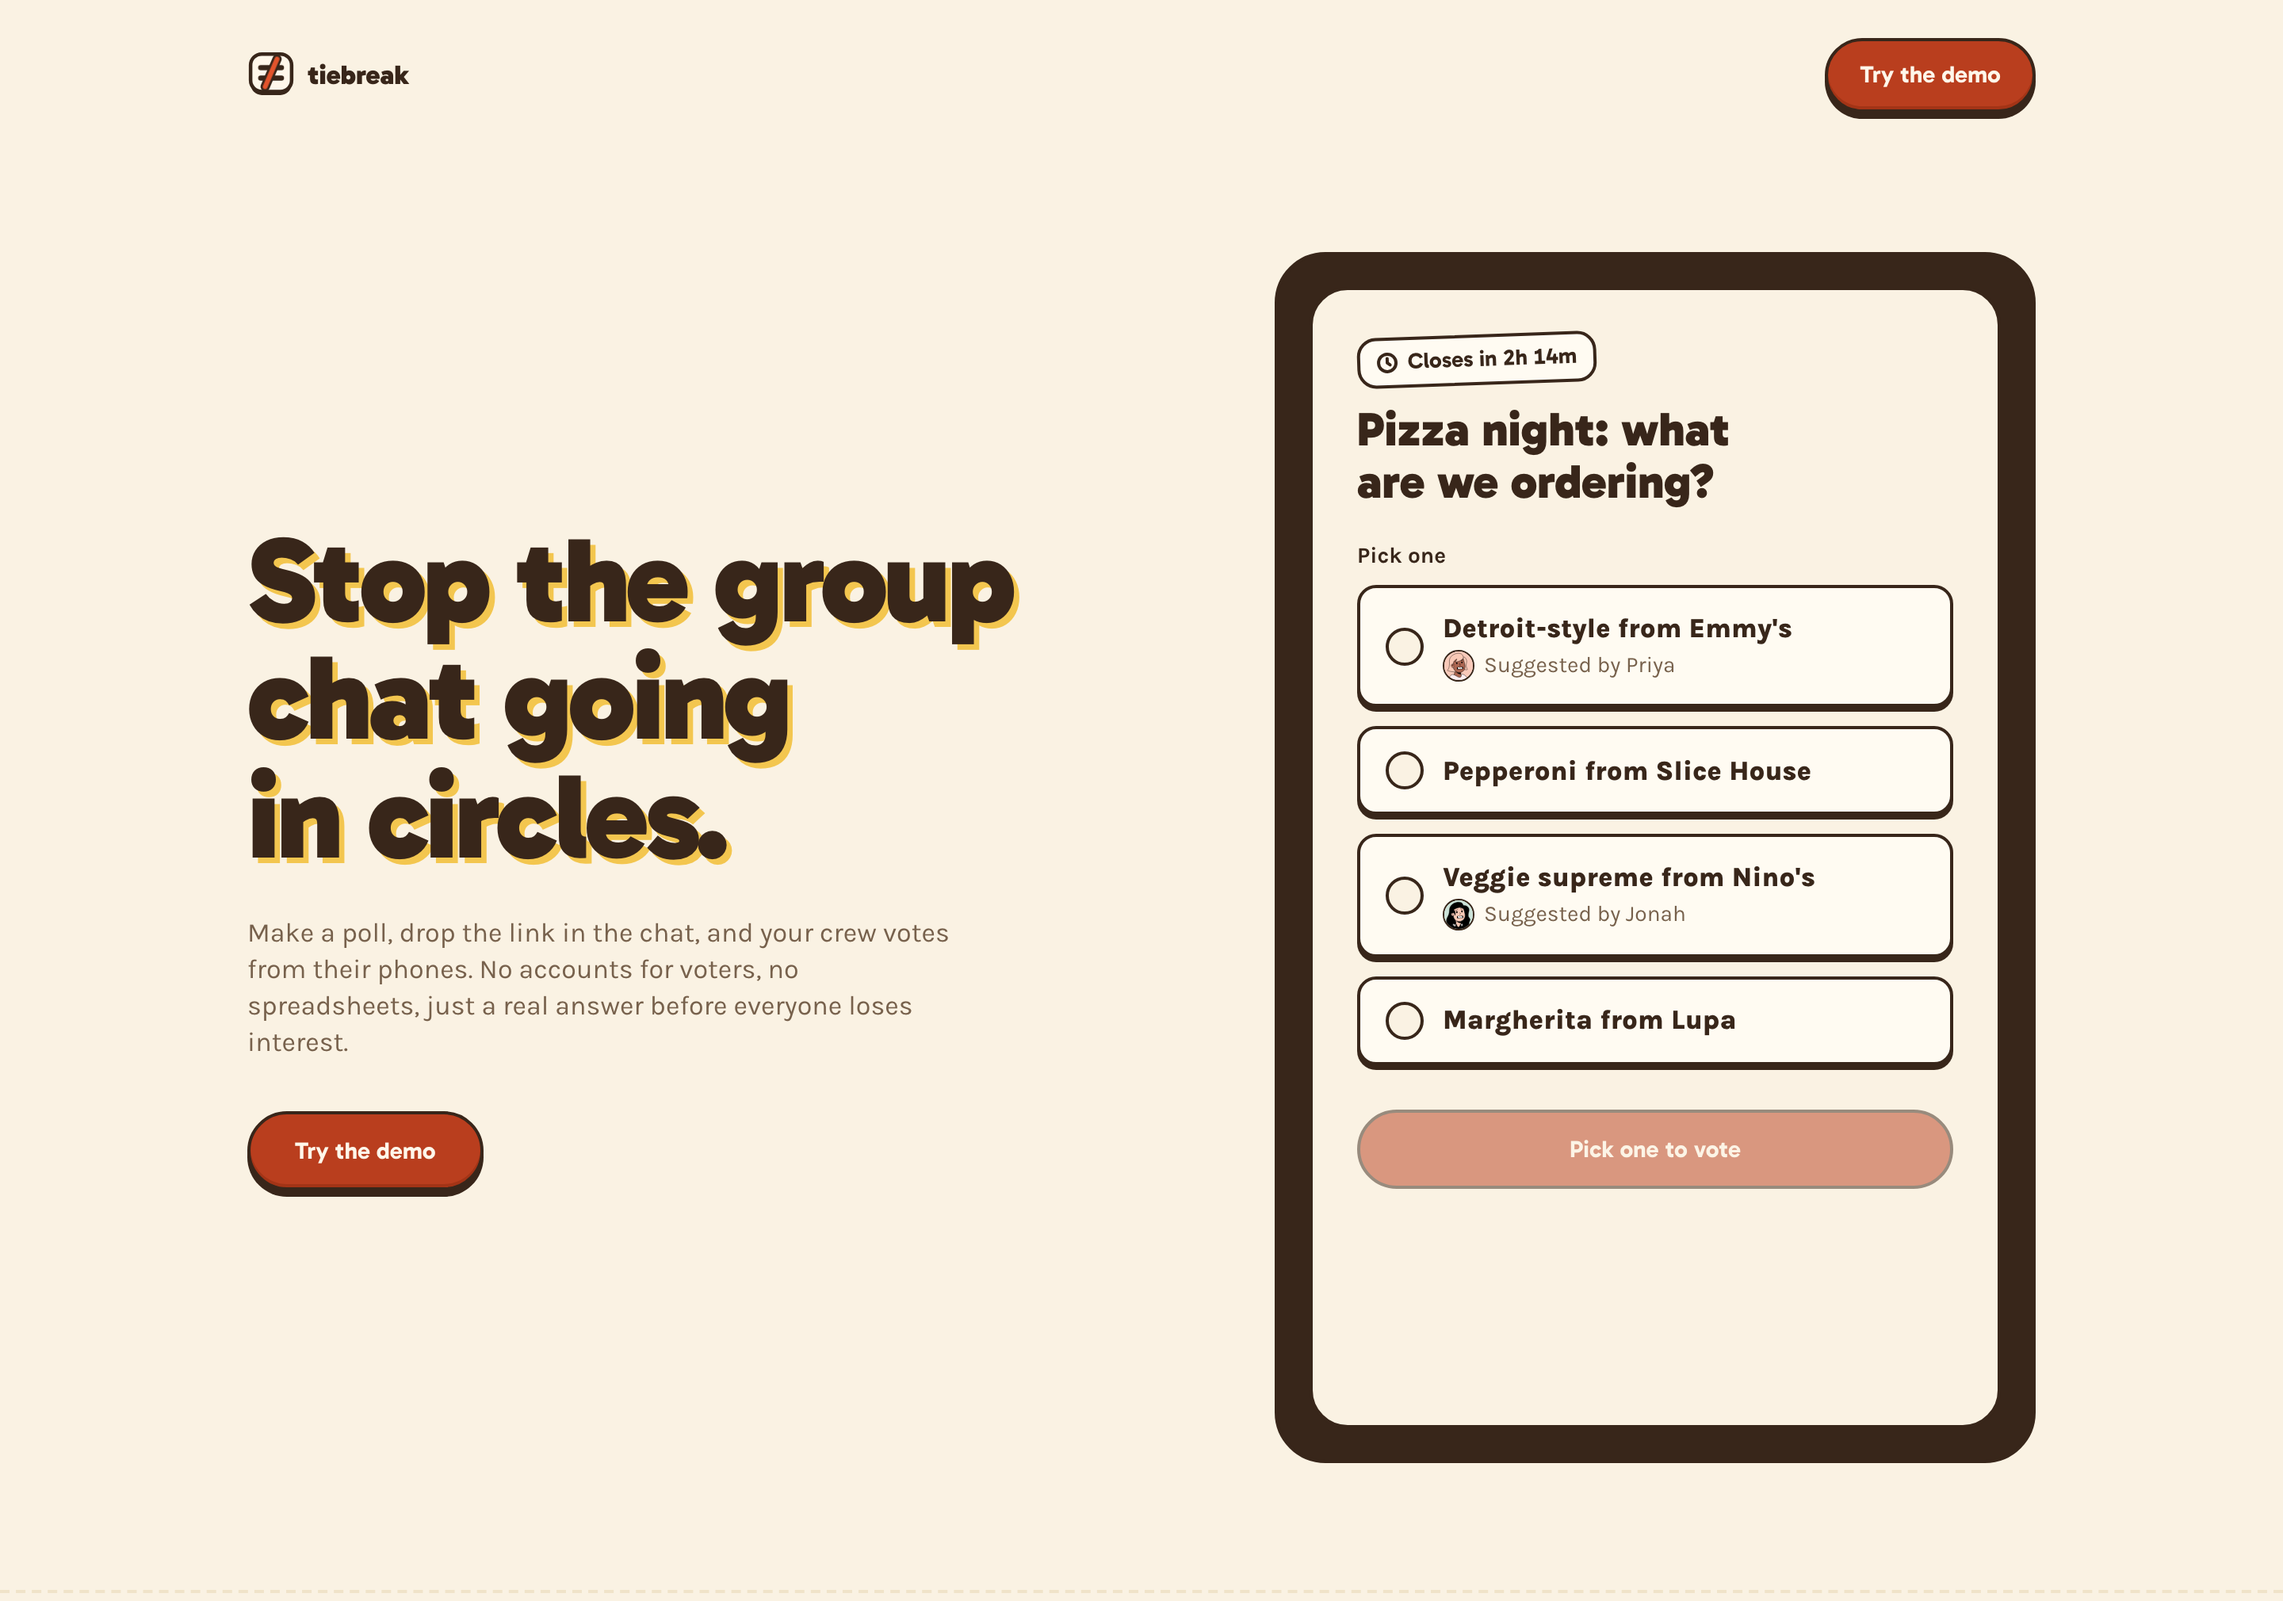
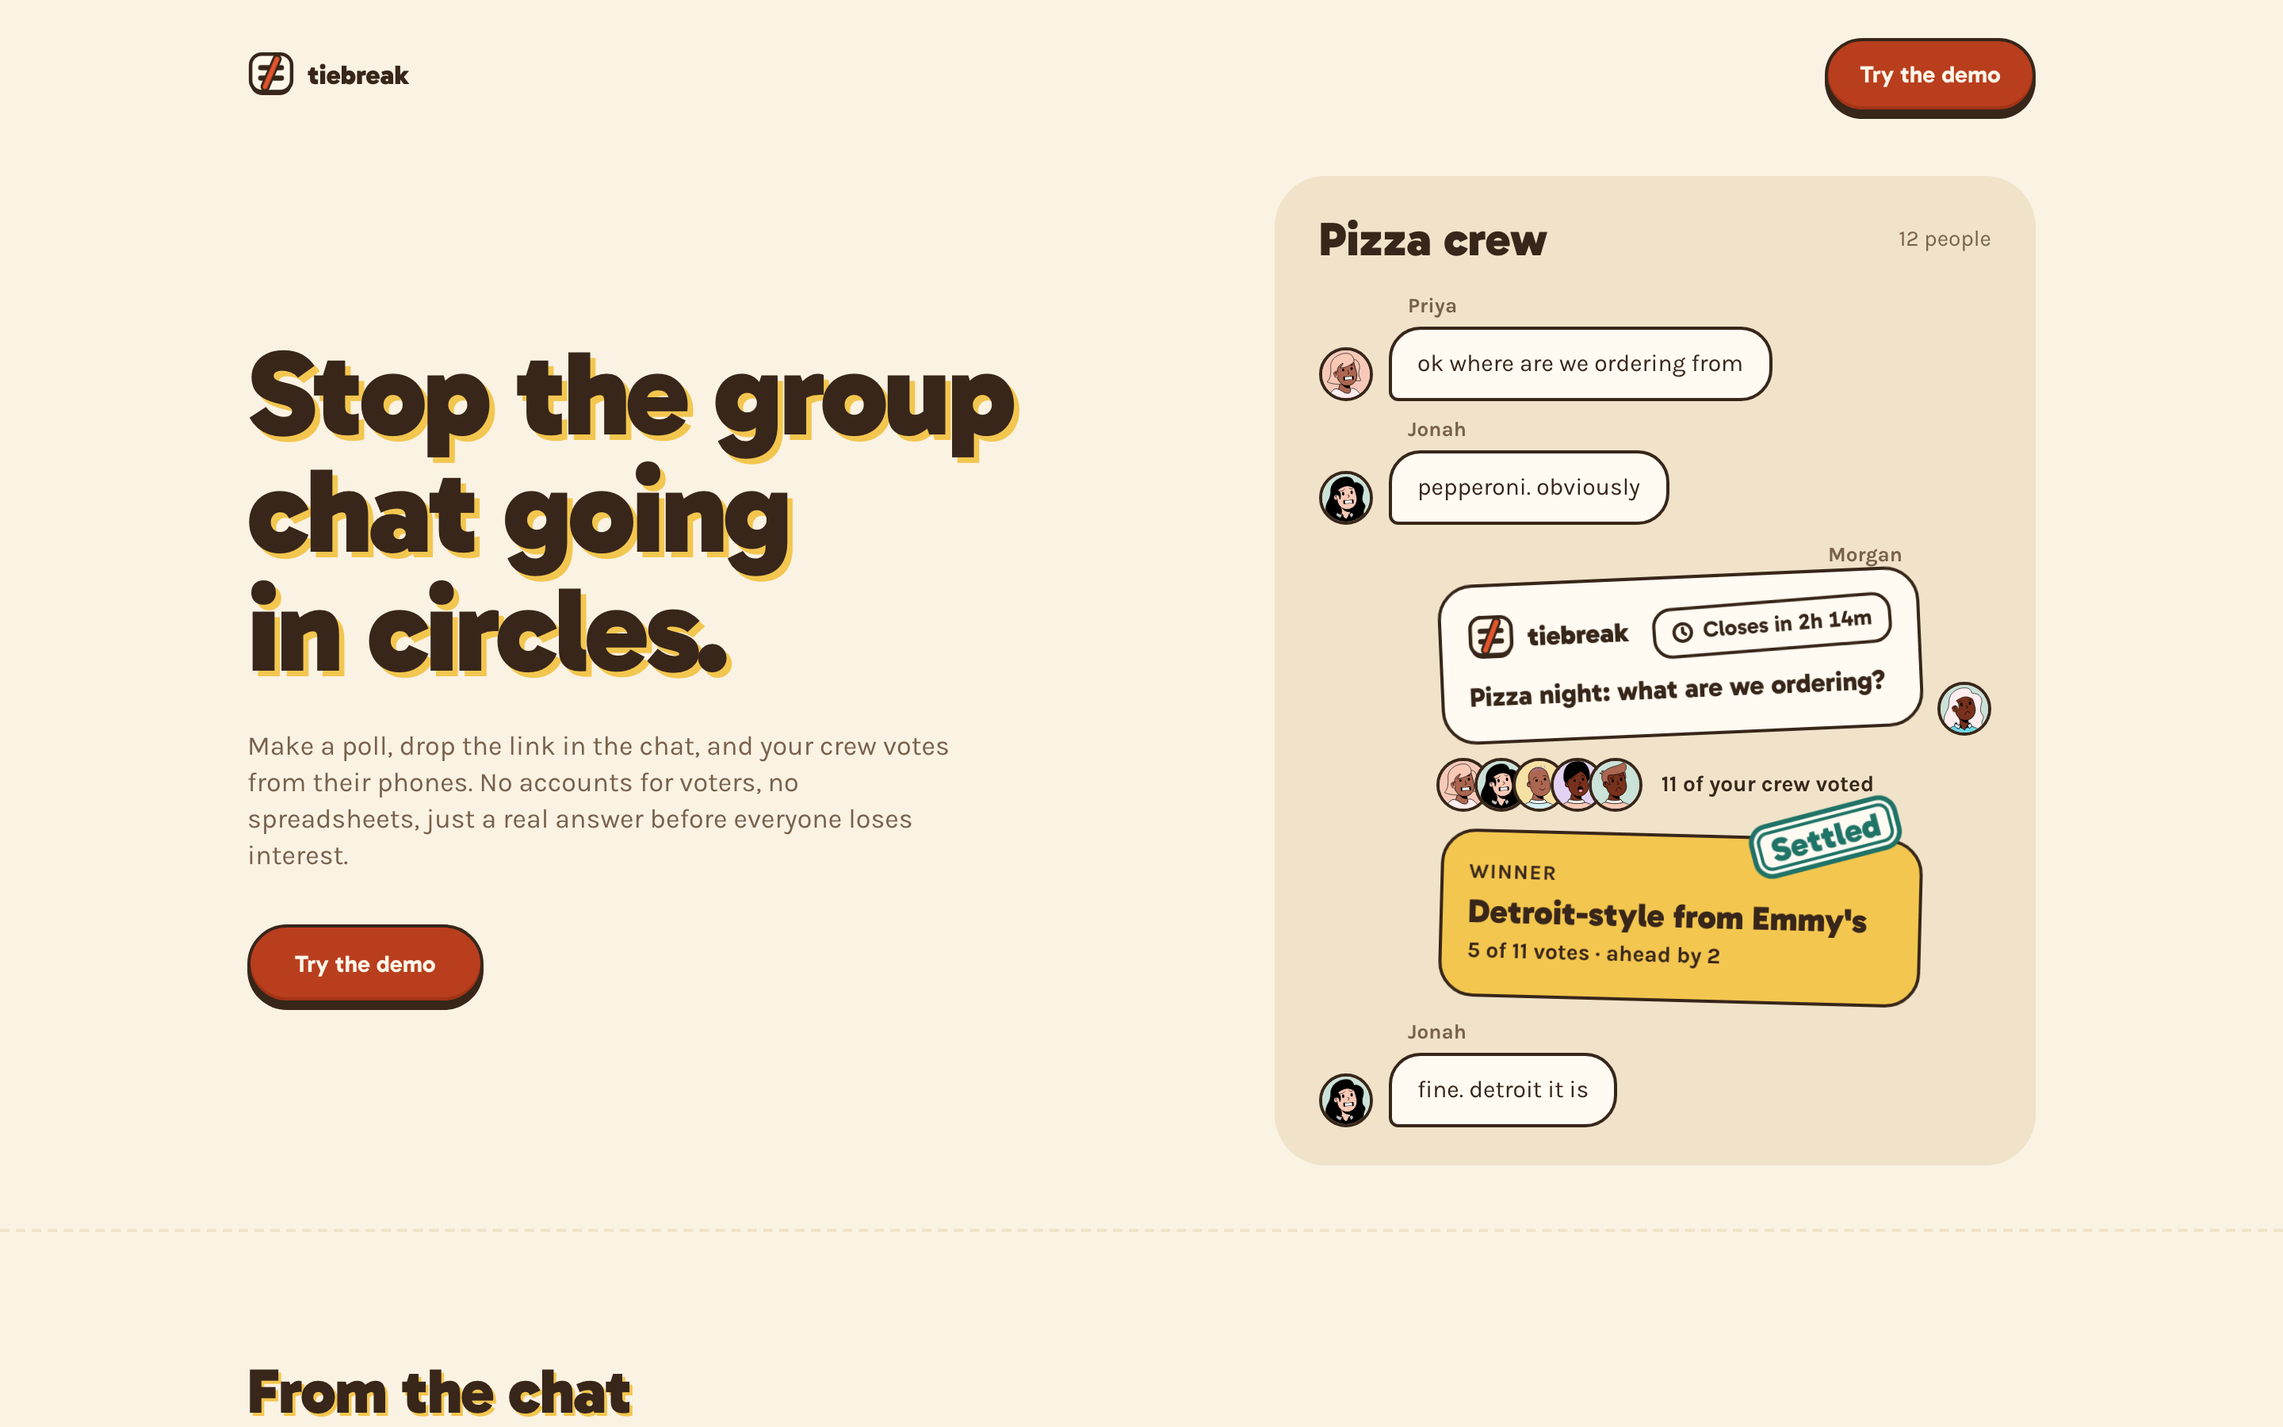
feat(client): hero is the group chat Tiebreak settles
Replaces the framed vote-page card with a group chat on the same soft panel as the moments below: friends go in circles, Morgan shares the poll, eleven vote, the result comes back stamped Settled. Messages pop in one by one on arrival; the shared link and result tilt like stickers and drift as the page scrolls (CSS scroll-driven, still where unsupported or under reduced motion). The hero now fits a 1280x800 desktop screen. README screenshot and caption updated.

diff --git a/client/src/components/landing/LandingChat.tsx b/client/src/components/landing/LandingChat.tsx
@@ -1,0 +1,183 @@
+import { useEffect, useRef, useState, type CSSProperties, type ReactNode } from "react";
+import type { Identity } from "@tiebreak/shared";
+import { Logo } from "../layout/Logo";
+import { StatusSticker } from "../poll/StatusSticker";
+import { VoterCrewStack } from "../poll/VoterCrewStack";
+import { Avatar } from "../ui/Avatar";
+import { cn } from "../../lib/cn";
+import { DEMO_CREW, DEMO_OPTIONS, DEMO_TITLE } from "./demo-poll";
+
+const [PRIYA, JONAH] = DEMO_CREW;
+const MORGAN: Identity = { name: "Morgan", avatar: { seed: "Morgan", tint: "cbe2d8" } };
+const CLOSES_AT = new Date(Date.now() + (2 * 60 + 14) * 60_000).toISOString();
+const WINNER = DEMO_OPTIONS[0];
+/** Gap between messages arriving, and the stamp's wait after the result lands. */
+const STEP_MS = 260;
+
+const reducedMotion = () => window.matchMedia("(prefers-reduced-motion: reduce)").matches;
+
+/**
+ * The hero picture: a group chat going in circles until Morgan drops a
+ * Tiebreak link, the crew votes, and the result comes back stamped. The
+ * product's whole success case, told where it actually happens.
+ *
+ * On arrival the messages pop in one by one, like the chat happening, then the
+ * stamp slams down. While the page scrolls, the two stickers (the poll link and
+ * the result) tilt and drift a little: a CSS scroll-driven animation, so it
+ * costs no JS and simply stays still where unsupported.
+ */
+export function LandingChat() {
+  const ref = useRef<HTMLDivElement>(null);
+  // Reduced motion: no arrival to wait for, the whole thread is there from the start.
+  const [seen, setSeen] = useState(reducedMotion);
+
+  useEffect(() => {
+    if (seen) return;
+    const observer = new IntersectionObserver(([entry]) => entry.isIntersecting && setSeen(true), {
+      threshold: 0.3,
+    });
+    observer.observe(ref.current!);
+    return () => observer.disconnect();
+  }, [seen]);
+
+  // Each message pops in on its own beat; nothing shows before the thread is on screen.
+  const beat = (i: number): { className: string; style?: CSSProperties } =>
+    seen
+      ? {
+          className: "animate-[pop_0.32s_var(--ease-out)_both] motion-reduce:animate-none",
+          style: { animationDelay: `${i * STEP_MS}ms` },
+        }
+      : { className: "invisible" };
+
+  return (
+    <figure className="w-full">
+      <figcaption className="sr-only">
+        A group chat about pizza night going in circles until Morgan shares a Tiebreak poll. Eleven friends vote, the
+        result comes back stamped Settled: Detroit-style from Emmy's with 5 of 11 votes, and the chat agrees.
+      </figcaption>
+      {/* An illustration: hidden from assistive tech, the caption above carries it. Same panel as the moments below. */}
+      <div ref={ref} aria-hidden="true" inert className="rounded-[2rem] bg-cream-deep p-5 sm:px-7 sm:py-6">
+        <div className="flex items-center justify-between gap-3">
+          <p className="font-display text-xl font-black text-cocoa">Pizza crew</p>
+          <p className="font-body text-sm text-cocoa-soft">12 people</p>
+        </div>
+
+        <ol className="mt-4 space-y-2.5">
+          <Said by={PRIYA} {...beat(0)}>
+            ok where are we ordering from
+          </Said>
+          <Said by={JONAH} {...beat(1)}>
+            pepperoni. obviously
+          </Said>
+          {/* Morgan's message is the link itself: shared into the chat like a sticker on the table. */}
+          <Shared by={MORGAN}>
+            <Sticker tilt="-2.5deg" tiltTo="-5deg" {...beat(2)}>
+              <div className="rounded-[length:var(--radius-lg)] border-[length:var(--border-card)] border-cocoa bg-card p-4">
+                <div className="flex items-center justify-between gap-3">
+                  <Logo className="text-sm" />
+                  <StatusSticker state="open" closesAt={CLOSES_AT} />
+                </div>
+                <p className="mt-2.5 font-display text-md font-extrabold leading-snug text-cocoa">{DEMO_TITLE}</p>
+              </div>
+            </Sticker>
+          </Shared>
+
+          <li className={cn("flex justify-center py-1", beat(3).className)} style={beat(3).style}>
+            <VoterCrewStack crew={DEMO_CREW} lastVoteAt={null} />
+          </li>
+
+          <Shared>
+            <Sticker tilt="1.5deg" tiltTo="4deg" {...beat(4)}>
+              <div className="relative rounded-[length:var(--radius-lg)] border-[length:var(--border-card)] border-cocoa bg-butter p-4 pr-6 text-cocoa">
+                <p className="font-body text-xs font-bold uppercase tracking-[0.06em]">Winner</p>
+                <p className="mt-1 font-display text-lg font-black leading-tight">{WINNER.label}</p>
+                <p className="mt-1 font-body text-sm font-bold">5 of 11 votes · ahead by 2</p>
+                {/* The same rubber stamp as "Counted" on a cast vote, landing last. */}
+                <span
+                  className={cn(
+                    "absolute -top-5 right-3 rotate-[-8deg] rounded-[length:var(--radius-md)] border-[3px] border-teal bg-card px-2.5 py-0.5 font-display text-lg font-black text-teal shadow-[inset_0_0_0_2px_var(--color-card),inset_0_0_0_4px_var(--color-teal)]",
+                    seen ? "animate-[stamp-slam_0.4s_var(--ease-out)_both] motion-reduce:animate-none" : "invisible",
+                  )}
+                  style={seen ? { animationDelay: `${5 * STEP_MS + 150}ms` } : undefined}
+                >
+                  Settled
+                </span>
+              </div>
+            </Sticker>
+          </Shared>
+
+          <Said by={JONAH} {...beat(5)}>
+            fine. detroit it is
+          </Said>
+        </ol>
+      </div>
+    </figure>
+  );
+}
+
+const BUBBLE =
+  "rounded-[1.25rem] border-2 border-cocoa bg-card px-4 py-2.5 font-body text-base text-cocoa";
+
+/** A friend's message: a face at the foot of the bubble and the name above it. */
+function Said({
+  by,
+  className,
+  style,
+  children,
+}: {
+  by: Identity;
+  className?: string;
+  style?: CSSProperties;
+  children: ReactNode;
+}) {
+  return (
+    <li className={cn("flex items-end gap-2.5 pr-12 [transform-origin:bottom_left]", className)} style={style}>
+      <Avatar avatar={by.avatar} size={34} alt="" className="shrink-0" />
+      <div className="min-w-0">
+        <p className="mx-3 mb-1 font-body text-xs font-bold text-cocoa-soft">{by.name}</p>
+        <p className={cn(BUBBLE, "inline-block rounded-bl-[0.375rem]")}>
+          {children}
+        </p>
+      </div>
+    </li>
+  );
+}
+
+/** Morgan's side of the chat: right-aligned, his face at the foot (left blank on a follow-up, as chats do). */
+function Shared({ by, children }: { by?: Identity; children: ReactNode }) {
+  return (
+    <li className="flex items-end justify-end gap-2.5">
+      <div className="flex min-w-0 max-w-[19rem] flex-1 flex-col items-end">
+        {by && <p className="mx-3 mb-1 font-body text-xs font-bold text-cocoa-soft">{by.name}</p>}
+        {children}
+      </div>
+      {by ? <Avatar avatar={by.avatar} size={34} alt="" className="shrink-0" /> : <span className="w-[34px] shrink-0" />}
+    </li>
+  );
+}
+
+/**
+ * Something shared into the chat, sitting a little crooked like a sticker on the table. The outer layer
+ * holds the tilt (and the scroll-driven drift, see .scroll-tilt in globals.css); the inner one pops in.
+ */
+function Sticker({
+  tilt,
+  tiltTo,
+  className,
+  style,
+  children,
+}: {
+  tilt: string;
+  tiltTo: string;
+  className?: string;
+  style?: CSSProperties;
+  children: ReactNode;
+}) {
+  return (
+    <div className="scroll-tilt w-full" style={{ "--tilt": tilt, "--tilt-to": tiltTo } as CSSProperties}>
+      <div className={className} style={style}>
+        {children}
+      </div>
+    </div>
+  );
+}

diff --git a/client/src/routes/Landing.tsx b/client/src/routes/Landing.tsx
@@ -2,7 +2,7 @@ import { useEffect, useRef, useState, type ReactNode } from "react";
 import { Link } from "react-router";
 import { Logo } from "../components/layout/Logo";
 import { SkipLink } from "../components/layout/SkipLink";
-import { LandingDemo } from "../components/landing/LandingDemo";
+import { LandingChat } from "../components/landing/LandingChat";
 import {
   DEMO_CREW,
   DEMO_OPTIONS,
@@ -45,7 +45,7 @@ export function Landing() {
       </header>
 
       <main id="main">
-        <section className="mx-auto grid max-w-page grid-cols-[minmax(0,1fr)] items-center gap-12 px-4 pb-20 pt-8 lg:grid-cols-[minmax(0,1fr)_minmax(0,30rem)] lg:gap-16 lg:pt-16">
+        <section className="mx-auto grid max-w-page grid-cols-[minmax(0,1fr)] items-center gap-12 px-4 pb-20 pt-8 lg:grid-cols-[minmax(0,1fr)_minmax(0,30rem)] lg:gap-16 lg:pb-10 lg:pt-4">
           <div>
             <h1
               className={cn(
@@ -78,7 +78,7 @@ export function Landing() {
               )}
             </div>
           </div>
-          <LandingDemo />
+          <LandingChat />
         </section>
 
         <section

diff --git a/client/src/styles/globals.css b/client/src/styles/globals.css
@@ -152,6 +152,31 @@
       transform: scale(1) rotate(-8deg);
     }
   }
+  /* Stickers shared into the landing chat sit at a tilt and, as the page scrolls, tilt a little
+     further and drift up: scroll-driven, so no JS runs on scroll. Unsupported browsers and
+     reduced motion keep the resting tilt. */
+  .scroll-tilt {
+    rotate: var(--tilt);
+  }
+  @supports (animation-timeline: scroll()) {
+    @media (prefers-reduced-motion: no-preference) {
+      .scroll-tilt {
+        animation: scroll-tilt linear both;
+        animation-timeline: scroll(root);
+        animation-range: 0 70vh;
+      }
+    }
+  }
+  @keyframes scroll-tilt {
+    from {
+      rotate: var(--tilt);
+    }
+    to {
+      rotate: var(--tilt-to);
+      translate: 0 -18px;
+    }
+  }
+
   /* A pack bar filling out from the left to its share (the landing page's results moment). */
   @keyframes pack-fill {
     from {

diff --git a/README.md b/README.md
@@ -6,9 +6,9 @@ A group polling app — create a poll, share a link, the group votes, ties get s
 
 ## Screenshots
 
-**Landing page.** The vote page on the right is playable: pick, cast, watch the stamp land.
+**Landing page.** The whole product in one group chat: friends going in circles, a Tiebreak link, eleven votes, a settled answer.
 
-![Tiebreak landing page: "Stop the group chat going in circles." beside a playable Pizza night ballot](docs/screenshots/landing.png)
+![Tiebreak landing page: "Stop the group chat going in circles." beside a group chat where a shared poll ends in a stamped winner](docs/screenshots/landing.png)
 
 **The vote page.** What everyone in the chat opens from the link: a name, a face, one pick, one button.
 
